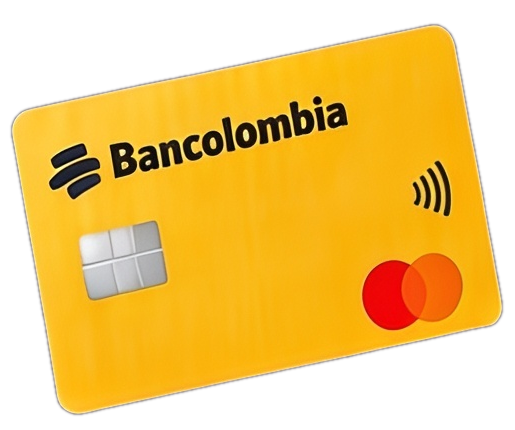
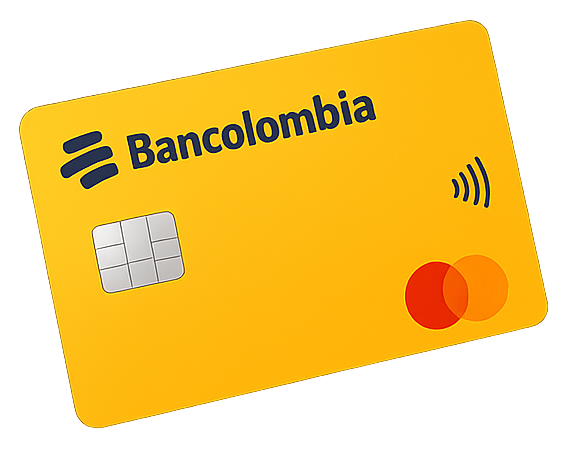
Cut the Bancolombia pieces from the new transparent art and add copy and remove actions to the layout editor
The Bancolombia card, logo and correspondent text now come from the new art with its transparent
background, so they are only cropped. The layout editor can copy each section as an image, remove a
chosen image from the sign until it is restored, and copy the whole sign.

Changed region(s): [[0.0, 0.0302, 0.9942, 0.9674]]

diff --git a/tools/layout_editor/layout_editor.js b/tools/layout_editor/layout_editor.js
@@ -12,9 +12,10 @@ const template = /* html */ `
       <label>Zoom <input class="zoom" type="range" min="0.1" max="1.5" step="0.01"></label>
       <label><input class="show_reference" type="checkbox"> Original encima</label>
       <label><input class="move_backgrounds" type="checkbox"> Mover fondos</label>
+      <label><input class="clean_view" type="checkbox"> Vista final</label>
     </div>
     <ul class="list"></ul>
-    <div class="row"><button class="copy_section primary">Copiar sección como imagen</button><span class="section_name">Ninguna sección elegida</span></div>
+    <div class="row"><button class="copy_all primary">Copiar imagen completa</button></div>
     <div class="selected_controls">
       <strong class="selected_name">Ninguna pieza elegida</strong>
       <div class="fields">
@@ -22,7 +23,7 @@ const template = /* html */ `
         <label>y<input class="field_y" type="number"></label>
         <label>escala<input class="field_scale" type="number" step="0.05" min="0.1"></label>
       </div>
-      <div class="row"><button class="to_front">Al frente</button><button class="to_back">Al fondo</button></div>
+      <div class="row"><button class="to_front">Al frente</button><button class="to_back">Al fondo</button><button class="delete_piece">Eliminar imagen</button></div>
       <textarea class="note" placeholder="Instrucción para esta pieza (ej. más grande, tapar la parte baja…)"></textarea>
     </div>
     <div class="row"><button class="copy primary">Copiar instrucciones</button><button class="reset">Restaurar original</button></div>
@@ -119,8 +120,10 @@ export class LayoutEditor extends HTMLElement {
     this.#element('.note').addEventListener('input', (event) => this.#edit_selected({ note: event.target.value }));
     this.#element('.to_front').addEventListener('click', () => this.#edit_selected({ order: this.#extreme_order(Math.max) + 1 }));
     this.#element('.to_back').addEventListener('click', () => this.#edit_selected({ order: this.#extreme_order(Math.min) - 1 }));
+    this.#element('.delete_piece').addEventListener('click', () => this.#toggle_deleted());
     this.#element('.copy').addEventListener('click', () => this.#copy_instructions());
-    this.#element('.copy_section').addEventListener('click', () => this.#copy_section());
+    this.#element('.clean_view').addEventListener('change', (event) => this.classList.toggle('clean', event.target.checked));
+    this.#element('.copy_all').addEventListener('click', () => this.#copy_all());
     this.#element('.reset').addEventListener('click', () => {
       this.#layout = original_layout();
       this.#heights = [...original_section_heights];
@@ -203,6 +206,7 @@ export class LayoutEditor extends HTMLElement {
   }
 
   #nudge(event) {
+    if (event.key === 'Delete') return this.#toggle_deleted();
     if (event.key === '+' || event.key === '-') return this.#scale_with_key(event);
     const steps = { ArrowLeft: [-1, 0], ArrowRight: [1, 0], ArrowUp: [0, -1], ArrowDown: [0, 1] }[event.key];
     if (!steps || !this.#selected_name) return;
@@ -210,6 +214,12 @@ export class LayoutEditor extends HTMLElement {
     const placement = this.#layout[this.#selected_name];
     this.#edit_selected({ x: placement.x + steps[0] * distance, y: placement.y + steps[1] * distance });
     event.preventDefault();
+  }
+
+  // A deleted image leaves the sign and every copy but stays selected, so it can be restored with the same button.
+  #toggle_deleted() {
+    if (!this.#selected_name) return this.#say('Elige una imagen primero.');
+    this.#edit_selected({ deleted: !this.#layout[this.#selected_name].deleted });
   }
 
   #scale_with_key(event) {
@@ -274,7 +284,7 @@ export class LayoutEditor extends HTMLElement {
 
   #place_handle() {
     const part = parts_catalog.find((candidate) => candidate.name === this.#selected_name);
-    this.#handle.style.display = part && !this.#is_locked(part) ? 'block' : 'none';
+    this.#handle.style.display = part && !this.#is_locked(part) && !this.#layout[part.name].deleted ? 'block' : 'none';
     if (!part) return;
     const placement = this.#layout[part.name];
     const image = this.#images.get(part.name);
@@ -291,7 +301,7 @@ export class LayoutEditor extends HTMLElement {
     image.style.top = `${placement.y}px`;
     image.style.zIndex = placement.order;
     image.style.transform = `scale(${placement.scale}, ${placement.scale * placement.stretch})`;
-    image.style.display = placement.visible ? 'block' : 'none';
+    image.style.display = placement.visible && !placement.deleted ? 'block' : 'none';
     image.classList.toggle('selected', part.name === this.#selected_name);
     image.classList.toggle('in_section', part.section === this.#selected_section);
     image.classList.toggle('locked', part.is_background && !can_move_backgrounds);
@@ -300,7 +310,6 @@ export class LayoutEditor extends HTMLElement {
   #refresh_list() {
     const items = sections.flatMap((section) => [this.#create_section_header(section), ...this.#section_names(section).map((name) => this.#create_list_item(name))]);
     this.#element('.list').replaceChildren(...items);
-    this.#element('.section_name').textContent = this.#selected_section ?? 'Ninguna sección elegida';
   }
 
   #natural_size(name) {
@@ -315,14 +324,20 @@ export class LayoutEditor extends HTMLElement {
   #create_section_header(section) {
     const header = document.createElement('li');
     header.className = section.title === this.#selected_section ? 'section_header selected' : 'section_header';
-    header.innerHTML = /* html */ `<span></span><label>alto <input class="section_height" type="number" step="10"></label>`;
+    header.innerHTML = /* html */ `<span></span><label>alto <input class="section_height" type="number" step="10"></label><button class="copy_image" title="Copiar esta sección como imagen">Copiar imagen</button>`;
     header.querySelector('span').textContent = section.title;
+    this.#bind_header(header, section);
+    return header;
+  }
+
+  #bind_header(header, section) {
     const height_field = header.querySelector('.section_height');
     height_field.value = this.#heights[sections.indexOf(section)];
     height_field.addEventListener('click', (event) => event.stopPropagation());
     height_field.addEventListener('change', () => this.#set_height(section, Number(height_field.value)));
+    const copy_button = header.querySelector('.copy_image');
+    copy_button.addEventListener('click', (event) => { event.stopPropagation(); this.#copy_section(section); });
     header.addEventListener('click', () => this.#select_section(section));
-    return header;
   }
 
   #set_height(section, requested_height) {
@@ -338,9 +353,9 @@ export class LayoutEditor extends HTMLElement {
 
   #create_list_item(name) {
     const item = document.createElement('li');
-    item.className = name === this.#selected_name ? 'selected' : '';
+    item.className = [name === this.#selected_name ? 'selected' : '', this.#layout[name].deleted ? 'deleted' : ''].join(' ');
     item.innerHTML = /* html */ `<input type="checkbox"><span></span>`;
-    item.querySelector('span').textContent = name;
+    item.querySelector('span').textContent = this.#layout[name].deleted ? `${name} (eliminada)` : name;
     const visibility = item.querySelector('input');
     visibility.checked = this.#layout[name].visible;
     visibility.addEventListener('click', (event) => event.stopPropagation());
@@ -356,6 +371,7 @@ export class LayoutEditor extends HTMLElement {
     const placement = this.#layout[this.#selected_name];
     this.#element('.selected_name').textContent = this.#selected_name ?? 'Ninguna pieza elegida';
     if (!placement) return;
+    this.#element('.delete_piece').textContent = placement.deleted ? 'Restaurar imagen' : 'Eliminar imagen';
     this.#element('.field_x').value = placement.x;
     this.#element('.field_y').value = placement.y;
     this.#element('.field_scale').value = placement.scale;
@@ -372,13 +388,23 @@ export class LayoutEditor extends HTMLElement {
     }
   }
 
-  async #copy_section() {
-    if (!this.#selected_section) return this.#say('Elige una sección primero.');
-    const parts = parts_catalog.filter((part) => part.section === this.#selected_section);
+  async #copy_section(section) {
+    const parts = parts_catalog.filter((part) => part.section === section.title && !this.#layout[part.name].deleted);
+    await this.#copy_image(parts, null, `Sección "${section.title}"`);
+  }
+
+  // The whole sign at its real size, without deleted images; whatever sticks out of the canvas is cut off.
+  async #copy_all() {
+    const bounds = { left: 0, top: 0, right: sign_size.width, bottom: sign_size.height };
+    const parts = parts_catalog.filter((part) => !this.#layout[part.name].deleted);
+    await this.#copy_image(parts, bounds, 'Imagen completa');
+  }
+
+  async #copy_image(parts, bounds, label) {
     try {
-      const blob = await render_section_blob(parts, this.#layout, this.#images);
+      const blob = await render_section_blob(parts, this.#layout, this.#images, bounds);
       await navigator.clipboard.write([new ClipboardItem({ 'image/png': blob })]);
-      this.#say(`Sección "${this.#selected_section}" copiada como imagen.`);
+      this.#say(`${label} copiada como imagen.`);
     } catch (copy_error) {
       this.#say(`No se pudo copiar la imagen: ${copy_error.message}`);
     }

diff --git a/tools/layout_editor/section_image.js b/tools/layout_editor/section_image.js
@@ -1,9 +1,9 @@
-// Draws the visible pieces of one section, back to front, into a PNG cropped to the area they cover.
-export function render_section_blob(parts, layout, images) {
+// Draws the visible pieces, back to front, into a PNG. Without `fixed_bounds` it is cropped to the area they cover.
+export function render_section_blob(parts, layout, images, fixed_bounds = null) {
   const placed = parts.filter((part) => layout[part.name].visible).sort((first, second) => layout[first.name].order - layout[second.name].order);
   if (!placed.length) throw new Error('The section has no visible pieces');
   const rectangles = placed.map((part) => rectangle_of(layout[part.name], images.get(part.name)));
-  const bounds = union_of(rectangles);
+  const bounds = fixed_bounds ?? union_of(rectangles);
   const canvas = new OffscreenCanvas(Math.ceil(bounds.right - bounds.left), Math.ceil(bounds.bottom - bounds.top));
   const context = canvas.getContext('2d');
   placed.forEach((part, index) => {

diff --git a/tools/layout_editor/layout_store.js b/tools/layout_editor/layout_store.js
@@ -5,7 +5,7 @@ const heights_key = `${storage_key}:section_heights`;
 
 export function original_layout() {
   return Object.fromEntries(parts_catalog.map((part, index) => [
-    part.name, { x: part.x, y: part.y, scale: 1, stretch: 1, visible: true, order: index, note: '' },
+    part.name, { x: part.x, y: part.y, scale: 1, stretch: 1, visible: true, deleted: false, order: index, note: '' },
   ]));
 }
 
@@ -57,7 +57,7 @@ export function ordered_names(layout) {
 }
 
 function describe_piece(name, placement) {
-  const state = placement.visible ? '' : ' [hidden]';
+  const state = placement.deleted ? ' [deleted]' : placement.visible ? '' : ' [hidden]';
   const stretch = placement.stretch === 1 ? '' : ` stretch=${placement.stretch.toFixed(2)}`;
   const note = placement.note ? ` -> ${placement.note}` : '';
   return `- ${name}: x=${Math.round(placement.x)} y=${Math.round(placement.y)} scale=${placement.scale.toFixed(2)}${stretch}${state}${note}`;

diff --git a/tools/layout_editor/layout_editor.css.js b/tools/layout_editor/layout_editor.css.js
@@ -22,6 +22,12 @@ layout_editor_styles.replaceSync(/* css */ `
   li.section_header { margin-top: 8px; font-weight: 700; background: #eef0f5; }
   li.section_header label { display: flex; gap: 4px; align-items: center; font-weight: 400; font-size: 12px; }
   li.section_header input { width: 64px; }
+  li.section_header { flex-wrap: wrap; }
+  li.section_header button { padding: 2px 8px; font-size: 12px; }
+  li.deleted { opacity: 0.55; }
+  li.deleted span { text-decoration: line-through; }
+  :host(.clean) .stage .divider, :host(.clean) .stage .handle, :host(.clean) .stage img.reference { display: none !important; }
+  :host(.clean) .stage img { outline: none !important; cursor: default; }
   li.selected { background: #dff0ff; }
   li span { flex: 1; overflow: hidden; text-overflow: ellipsis; white-space: nowrap; }
   .fields { display: grid; grid-template-columns: repeat(3, 1fr); gap: 6px; }

diff --git a/tools/layout_editor/parts_catalog.js b/tools/layout_editor/parts_catalog.js
@@ -19,15 +19,15 @@ const pieces = [
   ['logos', 'destellos_izquierda', 145, 875],
   ['logos', 'destellos_derecha', 625, 925],
   ['textos', 'texto_recarga', 50, 430],
-  ['textos', 'texto_corresponsal', 112, 2504],
+  ['textos', 'texto_corresponsal', 44, 2480],
   ['textos', 'texto_pago_servicios', 123, 3154],
   ['logos', 'logo_nequi', 125, 560],
-  ['logos', 'logo_bancolombia', 85, 2238],
+  ['logos', 'logo_bancolombia', 36, 2230],
   ['logos', 'iconos_servicios', 325, 2863],
   ['logos', 'logo_davivienda', 49, 3625],
   ['logos', 'logo_daviplata', 190, 3916],
   ['fotos', 'facturas', 672, 2818],
-  ['fotos', 'tarjeta_bancolombia', 235, 1643],
+  ['fotos', 'tarjeta_bancolombia', 195, 1650],
   ['fotos', 'celular_nequi', 150, 795],
   ['fotos', 'celular_davivienda', 605, 3460],
 ];

diff --git a/tools/cut_sign_parts.py b/tools/cut_sign_parts.py
@@ -3,7 +3,8 @@
 Photos (phones with hands, card, invoices) are cut out along their real edges with GrabCut; logos and
 texts are keyed against the band color; bands are rebuilt without them. The Nequi section has its own
 art (fuentes/), so its pieces come from there and the Nequi band takes the art's proportion; the
-Bancolombia band absorbs the height difference.
+Bancolombia band absorbs the height difference. The Bancolombia pieces come from art that already has a
+transparent background, so they are only cropped.
 """
 from pathlib import Path
 
@@ -28,14 +29,11 @@ SIGN_WIDTH = 960
 
 # name: (folder, left, top, right, bottom, how it is cut)
 PARTS = {
-    "tarjeta_bancolombia": ("fotos", 235, 2040, 750, 2470, "grabcut"),
     "facturas": ("fotos", 672, 2878, 960, 3380, "grabcut"),
     "celular_davivienda": ("fotos", 605, 3520, 960, 3950, "grabcut_sin_amarillo"),
-    "logo_bancolombia": ("logos", 85, 2464, 892, 2621, "key"),
     "iconos_servicios": ("logos", 325, 2923, 616, 3208, "key"),
     "logo_davivienda": ("logos", 49, 3685, 587, 3943, "opaque"),
     "logo_daviplata": ("logos", 190, 3976, 780, 4122, "key"),
-    "texto_corresponsal": ("textos", 112, 2654, 862, 2834, "key"),
     "texto_pago_servicios": ("textos", 123, 3214, 847, 3606, "key"),
 }
 # Pieces of the Nequi art, boxes in pixels of the art scaled to the sign width.
@@ -45,6 +43,13 @@ NEQUI_PARTS = {
     "destellos_izquierda": ("logos", 145, 505, 250, 612, "key"),
     "destellos_derecha": ("logos", 625, 555, 725, 695, "key"),
     "celular_nequi": ("fotos", 150, 425, 960, 1241, "grabcut"),
+}
+# Pieces of art that already has a transparent background (fuentes/); boxes are in pixels of that art.
+BANCOLOMBIA_ART = "fuentes/03_bancolombia_nueva.webp"
+BANCOLOMBIA_PARTS = {
+    "tarjeta_bancolombia": ("fotos", 215, 40, 785, 490),
+    "logo_bancolombia": ("logos", 75, 490, 962, 675),
+    "texto_corresponsal": ("textos", 78, 672, 950, 862),
 }
 KEY_THRESHOLD = 40
 # The sign sits inside a black frame; the clean color of each row is sampled just inside it.
@@ -68,6 +73,7 @@ class SignPartCutter:
         art_background = self._clean_rows(self.nequi_art)
         self._cut_parts(PARTS, self.source, backgrounds)
         self._cut_parts(NEQUI_PARTS, self.nequi_art, art_background)
+        self._cut_transparent_art(BANCOLOMBIA_ART, BANCOLOMBIA_PARTS)
         self._save_bands(backgrounds, art_background)
 
     def _cut_parts(self, parts: dict, image: np.ndarray, backgrounds: np.ndarray) -> None:
@@ -75,6 +81,12 @@ class SignPartCutter:
             box = (left, top, right, bottom)
             crop = image[top:bottom, left:right]
             self._save(folder, name, crop, self._alpha(crop, box, method, backgrounds))
+
+    def _cut_transparent_art(self, art_path: str, parts: dict) -> None:
+        art = np.asarray(Image.open(self.output / art_path).convert("RGBA"))
+        for name, (folder, left, top, right, bottom) in parts.items():
+            region = art[top:bottom, left:right]
+            self._save(folder, name, region[..., :3], region[..., 3])
 
     def _rebuild_backgrounds(self) -> np.ndarray:
         backgrounds = self.source.copy()

diff --git a/README.md b/README.md
@@ -40,4 +40,4 @@ The panel's "Probar diseños" section lets you pick a design for each board (bla
 
 ## Arranging the cut pieces
 
-With the dev server running, open http://localhost:8000/tools/layout_editor/ to drag the pieces of `signs/partes/bancolombia_oscuro_1x4_6/` (arrow keys nudge 1 px, Shift 10 px), scale them, reorder them, write a note per piece, set how tall each section is (the number next to its name, or drag the pink line between two sections; the space moves from one section to its neighbour) and press "Copiar instrucciones" to paste the layout into the chat.
+With the dev server running, open http://localhost:8000/tools/layout_editor/ to drag the pieces of `signs/partes/bancolombia_oscuro_1x4_6/` (arrow keys nudge 1 px, Shift 10 px), scale them, reorder them, write a note per piece, set how tall each section is (the number next to its name, or drag the pink line between two sections; the space moves from one section to its neighbour) and each section has "Copiar imagen" (copies it as a PNG), "Eliminar imagen" (or the Delete key) takes the chosen image out of the sign and of every copy until you restore it, "Copiar imagen completa" copies the whole sign, "Vista final" hides every control mark, and "Copiar instrucciones" pastes the layout into the chat.
